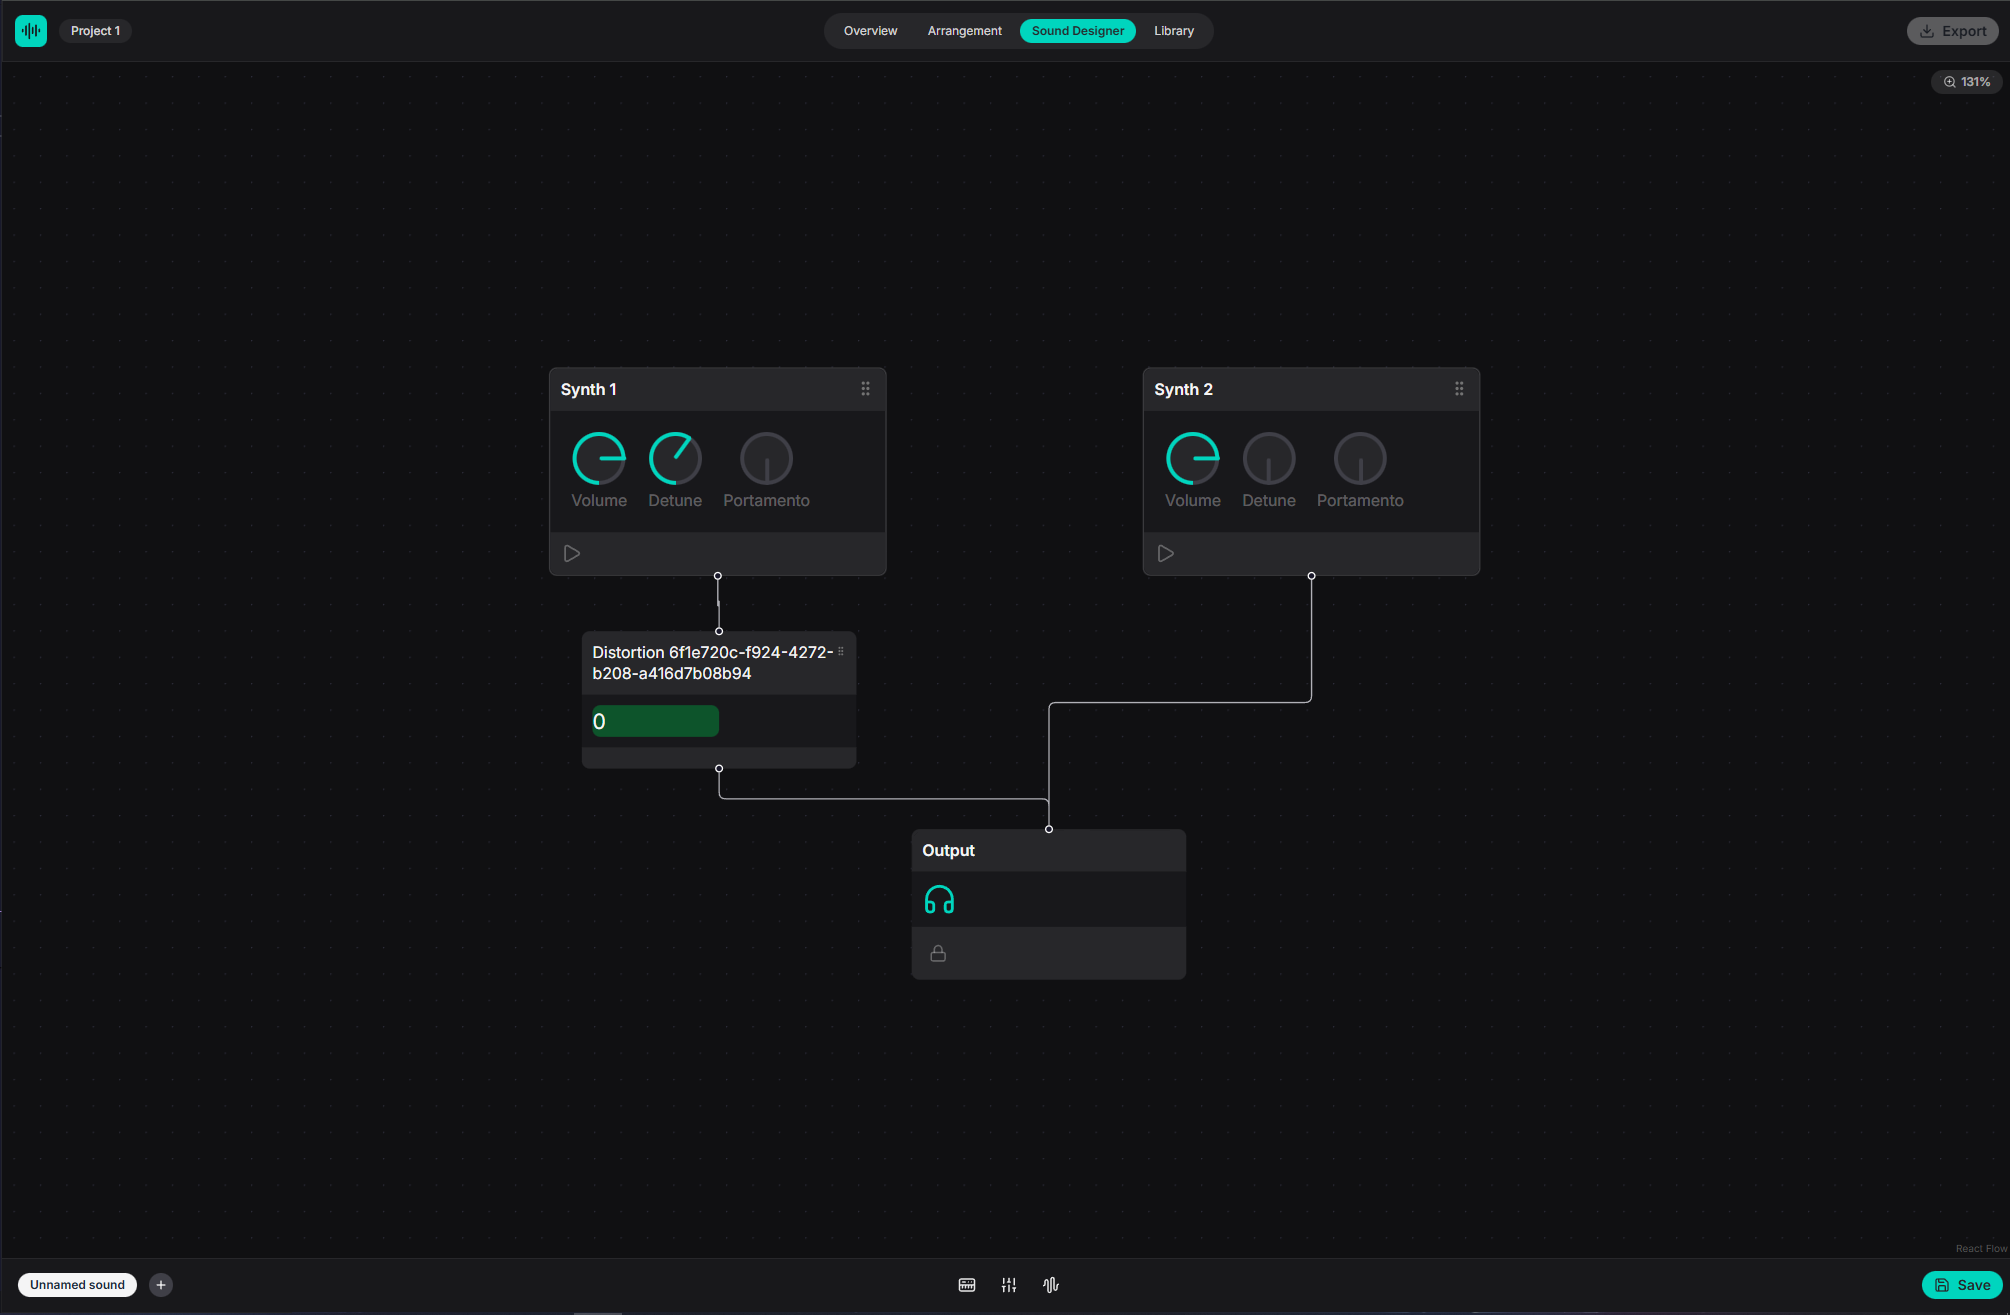
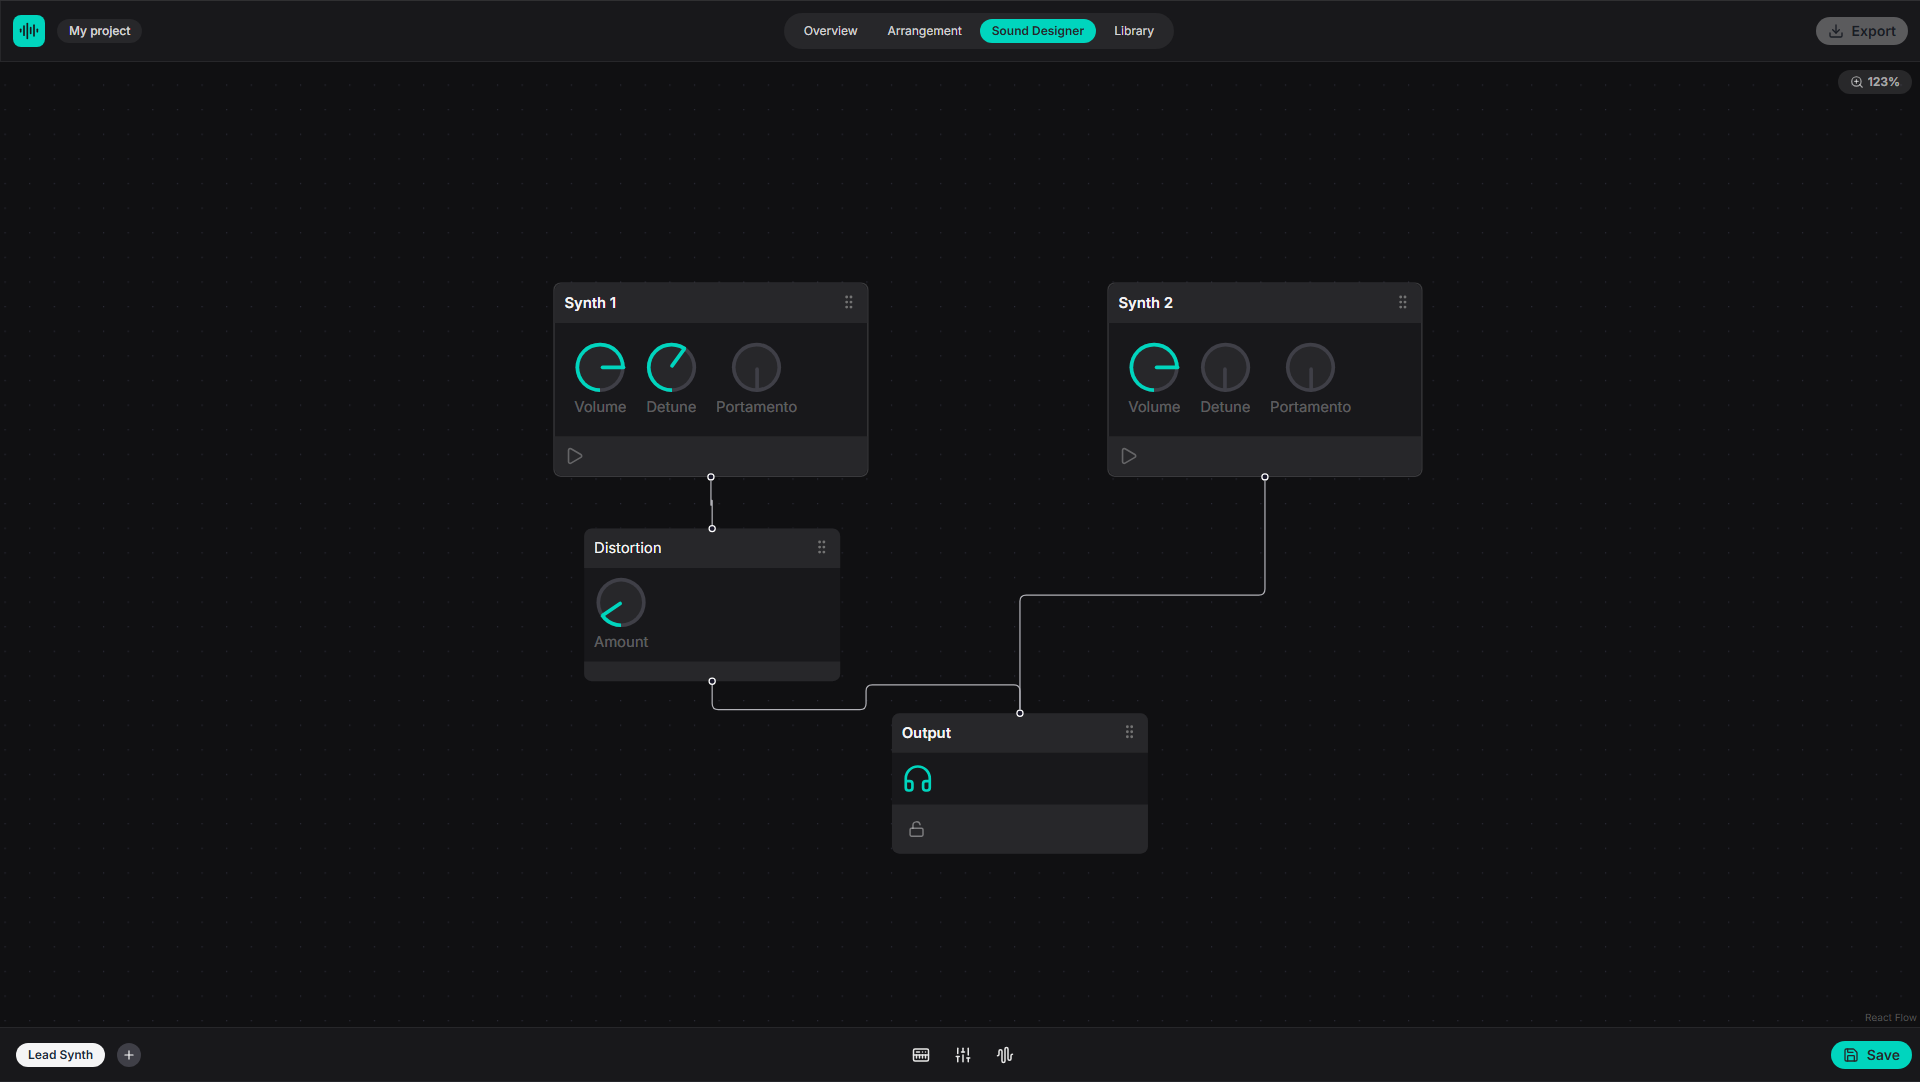
major changes to sound designer

diff --git a/src/app/soundmaker/sounddesignertoolbar/SoundSelection/SoundSelectionItem.tsx b/src/app/soundmaker/sounddesignertoolbar/SoundSelection/SoundSelectionItem.tsx
@@ -1,0 +1,92 @@
+import { AudioLines, Pencil, Trash } from 'lucide-react';
+import type { SoundPatch } from '../../../../model/types/SoundPatch';
+import {
+    PopoverPopup,
+    PopoverPortal,
+    PopoverPositioner,
+    PopoverRoot,
+    PopoverTrigger,
+} from '../../../../components/Popover';
+import db from '../../../../db/db';
+import { useNavigate, useParams } from 'react-router';
+import { toast } from '../../../../helpers/toasts/toast';
+import { cn } from '../../../../helpers/cn';
+
+interface SoundSelectionItemProps {
+    sound: SoundPatch;
+    onClick: () => void;
+}
+
+export const SoundSelectionItem = ({ sound, onClick }: SoundSelectionItemProps) => {
+    const { soundid, projectid } = useParams();
+    const navigate = useNavigate();
+
+    const active = soundid === sound.id;
+
+    const onDelete = async () => {
+        await db.sounds.delete(sound.id);
+
+        toast({
+            title: 'Sound deleted',
+            description: sound.title,
+            type: 'delete',
+        });
+
+        if (soundid === sound.id) {
+            navigate(`/app/${projectid}/sounddesigner`);
+        }
+    };
+
+    return (
+        <PopoverRoot>
+            <div className="relative">
+                <PopoverTrigger
+                    delay={200}
+                    openOnHover
+                    render={(props) => (
+                        <button
+                            {...props}
+                            className={cn(
+                                'bg-zinc-800/50 border border-zinc-700 rounded-lg p-2 text-xs w-20 h-20 flex flex-col justify-center items-center gap-2 hover:border-zinc-600 hover:bg-zinc-800/75 cursor-pointer transition-all',
+                                active &&
+                                    'border-primary hover:border-primary-hover hover:bg-primary/5'
+                            )}
+                            key={sound.id}
+                            onClick={onClick}
+                        >
+                            <AudioLines
+                                size={18}
+                                className={cn(
+                                    'text-zinc-500',
+                                    active && 'text-primary hover:text-primary'
+                                )}
+                            />
+                            {sound.title}
+                        </button>
+                    )}
+                />
+                <PopoverPortal>
+                    <PopoverPositioner side="top" sideOffset={5}>
+                        <PopoverPopup className="p-1 flex gap-1 w-fit min-w-0">
+                            <button className="hover:bg-zinc-800 p-1.5 rounded group cursor-pointer">
+                                <Pencil
+                                    size={14}
+                                    className="text-zinc-400 group-hover:text-zinc-100"
+                                />
+                            </button>
+                            <button
+                                className="hover:bg-zinc-800 group p-1.5 rounded cursor-pointer"
+                                onClick={onDelete}
+                            >
+                                <Trash
+                                    size={14}
+                                    className="group-hover:text-rose-400 text-zinc-400"
+                                />
+                            </button>
+                        </PopoverPopup>
+                    </PopoverPositioner>
+                </PopoverPortal>
+            </div>
+        </PopoverRoot>
+    );
+};

diff --git a/src/app/soundmaker/sounddesignertoolbar/SoundSelection/SoundSelection.tsx b/src/app/soundmaker/sounddesignertoolbar/SoundSelection/SoundSelection.tsx
@@ -1,0 +1,58 @@
+import { useLiveQuery } from 'dexie-react-hooks';
+
+import db from '../../../../db/db';
+import type { SoundPatch } from '../../../../model/types/SoundPatch';
+import { useActiveProject } from '../../../../hooks/useProject';
+import { Plus } from 'lucide-react';
+import { SoundSelectionItem } from './SoundSelectionItem';
+import { SearchInput } from '../../../../components/SearchInput';
+import { useState } from 'react';
+
+interface SoundSelectionProps {
+    onSelect: (sound: SoundPatch) => void;
+    onCreate: () => void;
+}
+
+export const SoundSelection = ({ onSelect, onCreate }: SoundSelectionProps) => {
+    const project = useActiveProject();
+    const sounds = useLiveQuery(
+        () => db.sounds.where({ projectId: project?.id ?? '' }).toArray(),
+        [project]
+    );
+
+    const [search, setSearch] = useState<string>('');
+
+    const filteredSounds = sounds
+        ?.filter((sound) => sound.title.toLowerCase().includes(search.toLowerCase()))
+        .sort((a, b) => {
+            return a.title.localeCompare(b.title);
+        });
+
+    return (
+        <div className="flex flex-col gap-4 h-full">
+            <div className="flex gap-4 items-center">
+                <h1 className="text-zinc-100 font-medium">Select sound</h1>
+                <SearchInput value={search} onValueChange={setSearch} placeholder="Search.." />
+            </div>
+            <div className="flex flex-wrap gap-4 grow overflow-y-auto">
+                {filteredSounds && filteredSounds.length > 0 ? (
+                    <>
+                        {filteredSounds.map((sound) => (
+                            <SoundSelectionItem sound={sound} onClick={() => onSelect(sound)} />
+                        ))}
+                        <button
+                            className="bg-zinc-800/50 border border-zinc-700 rounded-lg p-2 text-xs w-20 h-20 flex flex-col justify-center items-center gap-2 hover:border-zinc-600 hover:bg-zinc-800/75 cursor-pointer transition-all"
+                            onClick={onCreate}
+                        >
+                            <Plus size={18} className="text-zinc-500" />
+                        </button>
+                    </>
+                ) : (
+                    <div className="flex justify-center items-center w-full grow text-zinc-500 flex-col gap-3">
+                        <div>No sounds found.</div>
+                    </div>
+                )}
+            </div>
+        </div>
+    );
+};

diff --git a/src/app/soundmaker/nodes/DistortionNode.tsx b/src/app/soundmaker/nodes/DistortionNode.tsx
@@ -1,40 +1,37 @@
 import { Handle, Position, useReactFlow, type NodeProps } from '@xyflow/react';
 import type { DistortionNodeType } from '../../../model/types/NodeTypes';
-
 import { ContextMenuItem, ContextMenuPopup } from '../../../components/ContextMenu';
 import { GripVertical, Trash2 } from 'lucide-react';
 import { useState } from 'react';
-import { useAudioGraph } from '../../../hooks/useAudioGraph';
 import { ContextMenu } from '@base-ui/react/context-menu';
+import { Knob } from '../../../components/Knob';
 
 export const DistortionNode = ({ id, data }: NodeProps<DistortionNodeType>) => {
     const { updateNode } = useReactFlow();
     const [amount, setAmount] = useState<number>(data.distortion);
-
-    const audioGraph = useAudioGraph();
 
     return (
         <ContextMenu.Root>
             <ContextMenu.Trigger>
                 <div className="bg-zinc-900 rounded-md w-52 text-neutral-100 hover:shadow-lg hover:shadow-primary/5 flex flex-col">
                     <div className="bg-zinc-800 rounded-t-md p-2 flex justify-between drag-handle">
-                        <div className="text-xs ">Distortion {id}</div>
+                        <div className="text-xs ">Distortion </div>
                         <GripVertical className=" text-neutral-500" size={14} />
                     </div>
 
                     <div />
 
                     <div className="p-2">
-                        <input
-                            type="number"
-                            onChange={(e) => {
-                                const d = parseInt(e.target.value);
-                                setAmount(d);
-                                updateNode(id, { data: { ...data, distortion: d } });
+                        <Knob
+                            min={0}
+                            max={2}
+                            onChange={(amount) => {
+                                setAmount(amount);
+                                updateNode(id, { data: { ...data, distortion: amount } });
                             }}
                             value={amount}
-                            className="w-24 bg-green-900 rounded-md"
-                            min={0}
+                            label="Amount"
+                            floor={false}
                         />
                     </div>
 

diff --git a/src/components/Knob.tsx b/src/components/Knob.tsx
@@ -10,10 +10,22 @@ interface KnobProps {
     sensitivity?: number;
     label?: string;
     hideValue?: boolean;
+    floor?: boolean;
 }
 
-export const Knob = ({ value, min, max, sensitivity = 1, label, hideValue = true, onChange }: KnobProps) => {
-    const [dragStart, setDragStart] = useState<{ x: number; y: number; intialValue: number } | undefined>();
+export const Knob = ({
+    value,
+    min,
+    max,
+    sensitivity = 1,
+    label,
+    hideValue = true,
+    floor = true,
+    onChange,
+}: KnobProps) => {
+    const [dragStart, setDragStart] = useState<
+        { x: number; y: number; intialValue: number } | undefined
+    >();
 
     const MIN_DEGREES = 0;
     const MAX_DEGREES = 360;
@@ -39,7 +51,9 @@ export const Knob = ({ value, min, max, sensitivity = 1, label, hideValue = true
         if (dragStart && mousePosition) {
             const sens = shift ? 10 : internalSensitivity;
             const diffY = (dragStart.y - mousePosition.y) * sens;
-            const newValue = Math.floor(clamp(dragStart.intialValue + diffY));
+            const newValue = floor
+                ? Math.floor(clamp(dragStart.intialValue + diffY))
+                : parseFloat(clamp(dragStart.intialValue + diffY).toFixed(3));
 
             onChange(newValue);
         }
@@ -67,7 +81,9 @@ export const Knob = ({ value, min, max, sensitivity = 1, label, hideValue = true
             )}
             <div
                 className="relative aspect-square w-10 cursor-ns-resize group"
-                onMouseDown={(e) => setDragStart({ x: e.clientX, y: e.clientY, intialValue: value })}
+                onMouseDown={(e) =>
+                    setDragStart({ x: e.clientX, y: e.clientY, intialValue: value })
+                }
             >
                 {/* Top */}
                 <div className="absolute bg-zinc-800 inset-[3px] z-10 rounded-full flex items-center justify-center">

diff --git a/src/app/soundmaker/sounddesignertoolbar/SoundDesignerToolbar.tsx b/src/app/soundmaker/sounddesignertoolbar/SoundDesignerToolbar.tsx
@@ -6,7 +6,7 @@ import { useNavigate, useParams } from 'react-router';
 import Button from '../../../components/Button';
 import { useState } from 'react';
 import { cn } from '../../../helpers/cn';
-import { SoundSelection } from './SoundSelection';
+import { SoundSelection } from './SoundSelection/SoundSelection';
 import { toast } from '../../../helpers/toasts/toast';
 import { SynthSelection } from './SynthSelection';
 
@@ -64,6 +64,8 @@ export const SoundDesignerToolbar = () => {
 
         if (openPanel) {
             setOpenPanel(undefined);
+
+            // Transition Animation Delay
             await new Promise((resolve) => {
                 setTimeout(resolve, 125);
             });
@@ -127,7 +129,7 @@ export const SoundDesignerToolbar = () => {
             <div
                 className={cn(
                     'absolute bg-zinc-900/50 left-0 right-0 bottom-13 border-y border-zinc-800 transition-all overflow-hidden backdrop-blur-md',
-                    openPanel ? 'p-4 h-52 opacity-100' : 'p-0 h-0 opacity-0 pointer-events-none'
+                    openPanel ? 'p-4 pb-0 h-64 opacity-100' : 'p-0 h-0 border-0 pointer-events-none'
                 )}
             >
                 {getPanel()}

diff --git a/src/components/Input.tsx b/src/components/Input.tsx
@@ -1,14 +1,24 @@
 import { Input as BaseInput } from '@base-ui/react/input';
 import { cn } from '../helpers/cn';
+import type { ReactElement } from 'react';
 
-export const Input = (props: BaseInput.Props) => {
+interface InputProps extends BaseInput.Props {
+    icon?: ReactElement;
+}
+
+export const Input = (props: InputProps) => {
     return (
-        <BaseInput
-            {...props}
-            className={cn(
-                'text-sm border border-zinc-100/10 rounded-md text-zinc-100 px-2 py-1 outline-1 ',
-                props.className
+        <div className="relative">
+            <BaseInput
+                {...props}
+                className={cn(
+                    'text-sm border font-light leading-none border-zinc-100/10 rounded-md text-zinc-100 px-2 py-1.5 focus:border-zinc-600 outline-none transition-all',
+                    props.className
+                )}
+            />
+            {props.icon && (
+                <div className="absolute right-2 top-1/2 -translate-y-1/2">{props.icon}</div>
             )}
-        />
+        </div>
     );
 };

diff --git a/src/components/Toast.tsx b/src/components/Toast.tsx
@@ -1,5 +1,4 @@
-import { CircleCheck, CircleX } from 'lucide-react';
-import { useEffect, useRef, useState } from 'react';
+import { CircleCheck, CircleX, Trash } from 'lucide-react';
 import { toast } from 'sonner';
 
 export interface ToastProps {
@@ -11,7 +10,7 @@ export interface ToastProps {
         onClick?: () => void;
         dismiss?: boolean;
     };
-    type?: 'default' | 'success' | 'error';
+    type?: 'default' | 'success' | 'error' | 'delete';
 }
 
 export const Toast = (props: ToastProps) => {
@@ -23,6 +22,8 @@ export const Toast = (props: ToastProps) => {
                 return <CircleCheck size={20} className="text-green-400" />;
             case 'error':
                 return <CircleX size={20} className="text-rose-400" />;
+            case 'delete':
+                return <Trash size={20} className="text-rose-400" />;
             default:
                 return null;
         }

diff --git a/src/app/soundmaker/audioGraph.ts b/src/app/soundmaker/audioGraph.ts
@@ -82,11 +82,6 @@ export class AudioGraph {
         }
     }
 
-    public updateParams<T>(id: string, newParams: T) {
-        const toneNode = this.toneNodes.get(id);
-        toneNode.set(newParams);
-    }
-
     private createToneNode(node: NodePatch) {
         const type = node.type as NodeTypeNames;
         switch (type) {

diff --git a/src/components/SearchInput.tsx b/src/components/SearchInput.tsx
@@ -1,0 +1,7 @@
+import { Search } from 'lucide-react';
+import { Input } from './Input';
+import { Input as BaseInput } from '@base-ui/react/input';
+
+export const SearchInput = (props: BaseInput.Props) => {
+    return <Input icon={<Search size={14} className="text-zinc-600" />} {...props} />;
+};

diff --git a/src/hooks/useSoundDesigner.tsx b/src/hooks/useSoundDesigner.tsx
@@ -23,6 +23,7 @@ export const useSoundDesigner = () => {
             const sound = await db.sounds.get({ id: soundid });
 
             if (!sound && soundid) {
+                console.log(soundid);
                 throw new Error();
             }
             setStatus('resolved');

diff --git a/src/index.css b/src/index.css
@@ -6,6 +6,9 @@
     font-family: 'Inter', sans-serif;
     font-optical-sizing: auto;
     font-style: normal;
+
+    scrollbar-color: rgb(46, 46, 46) transparent;
+    scrollbar-width: thin;
 }
 
 @theme {
